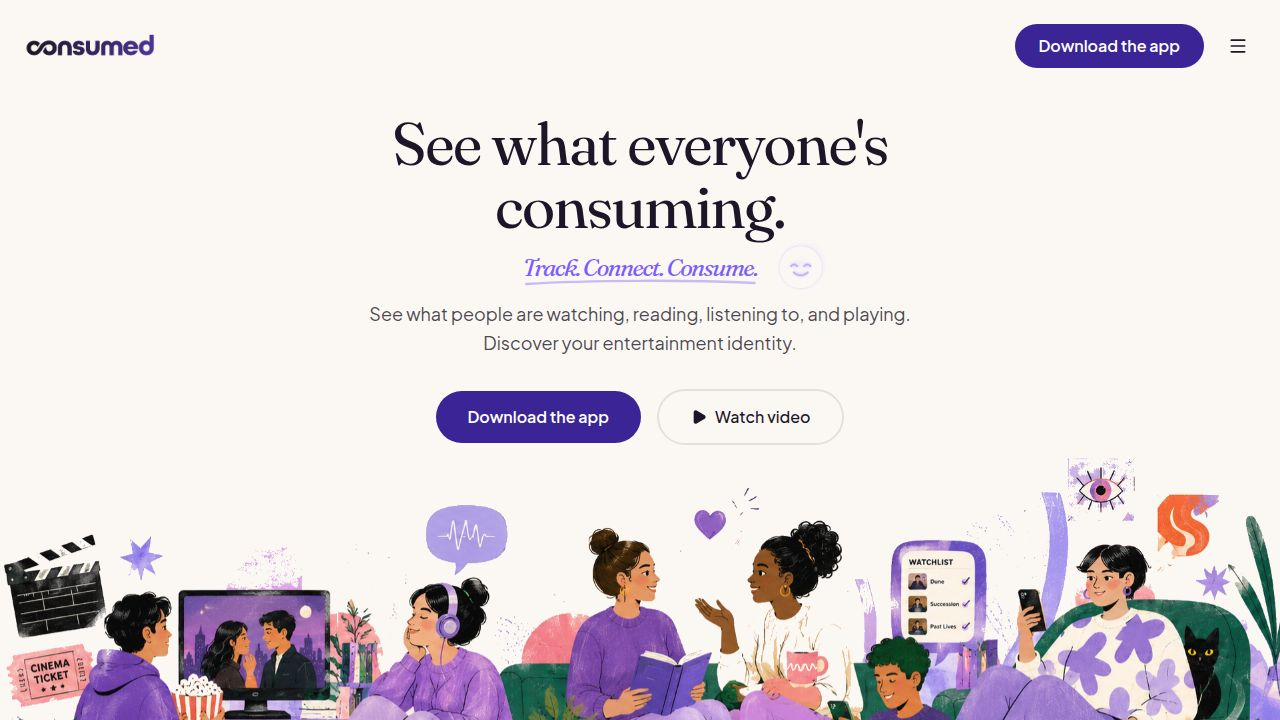
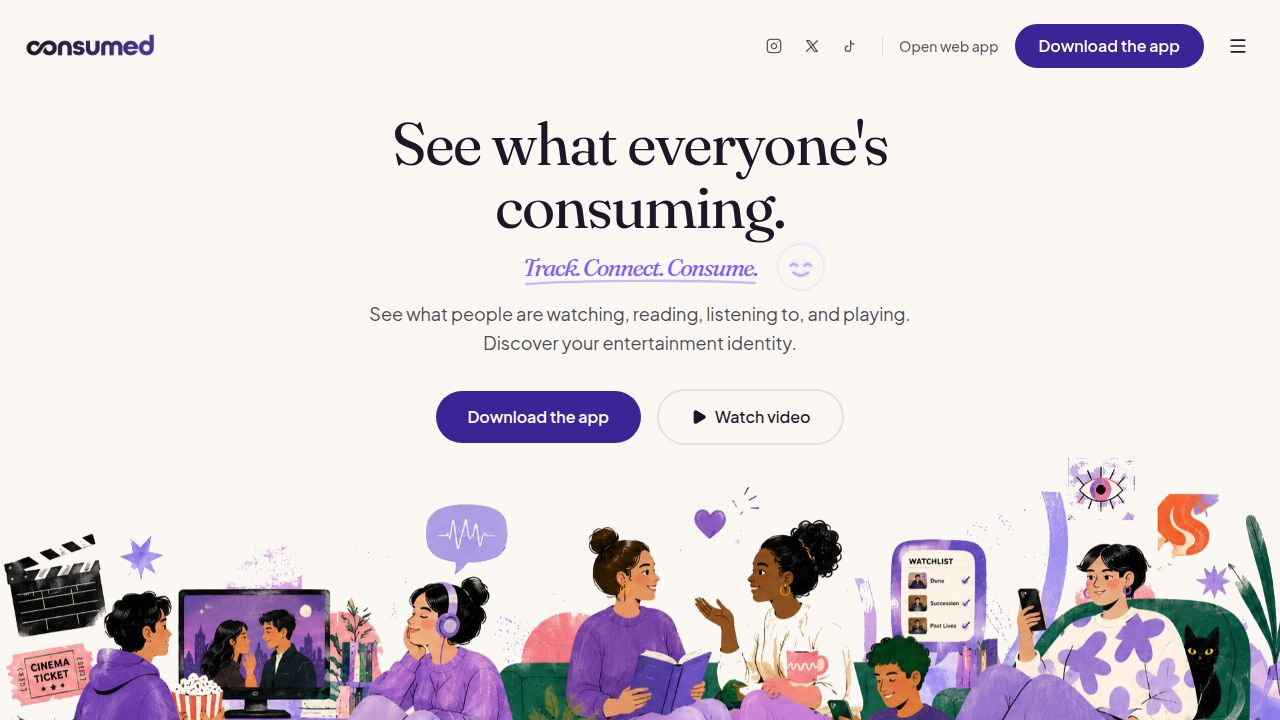
Add social media links to the header and mobile menu
Integrates Instagram, X, and TikTok social links into the header navigation and mobile menu of the React application, with the X link correctly pointing to "https://x.com/consumedapp".

Replit-Commit-Author: Agent
Replit-Commit-Session-Id: 1054afe4-a81a-4bfc-9d50-b308ff59b433
Replit-Commit-Checkpoint-Type: full_checkpoint
Replit-Commit-Event-Id: c1bf1c51-e830-44fe-8c20-2c316127a26f
Replit-Commit-Screenshot-Url: https://storage.googleapis.com/screenshot-production-us-central1/3ba4014b-a542-439a-b8e3-25ffaea1718b/1054afe4-a81a-4bfc-9d50-b308ff59b433/vY58wOK
Replit-Helium-Checkpoint-Created: true

diff --git a/client/src/pages/home.tsx b/client/src/pages/home.tsx
@@ -198,6 +198,18 @@ export default function Home() {
           </Link>
           
           <div className="flex items-center gap-3 md:gap-4">
+            <div className="hidden sm:flex items-center gap-1.5">
+              <a href="https://instagram.com/consumedapp" target="_blank" rel="noopener noreferrer" aria-label="Instagram" className="w-8 h-8 rounded-full flex items-center justify-center text-foreground/70 hover:text-primary hover:bg-primary/10 transition-colors" data-testid="link-nav-instagram">
+                <Instagram className="w-4 h-4" />
+              </a>
+              <a href="https://x.com/consumedapp" target="_blank" rel="noopener noreferrer" aria-label="X" className="w-8 h-8 rounded-full flex items-center justify-center text-foreground/70 hover:text-primary hover:bg-primary/10 transition-colors" data-testid="link-nav-x">
+                <XIcon className="w-4 h-4" />
+              </a>
+              <a href="https://www.tiktok.com/@consumedapp" target="_blank" rel="noopener noreferrer" aria-label="TikTok" className="w-8 h-8 rounded-full flex items-center justify-center text-foreground/70 hover:text-primary hover:bg-primary/10 transition-colors" data-testid="link-nav-tiktok">
+                <TikTok className="w-4 h-4" />
+              </a>
+            </div>
+            <span className="hidden sm:block w-px h-5 bg-border" />
             <a
               href="https://app.consumedapp.com"
               target="_blank"
@@ -232,6 +244,17 @@ export default function Home() {
               <Link href="/insights" className="text-left hover:text-primary transition-colors" data-testid="link-insights-mobile">Insights</Link>
               <a href="https://app.consumedapp.com" target="_blank" rel="noopener noreferrer" className="text-left hover:text-primary transition-colors" data-testid="link-web-app-mobile">Open web app</a>
             </nav>
+            <div className="flex items-center gap-4 mt-10">
+              <a href="https://instagram.com/consumedapp" target="_blank" rel="noopener noreferrer" aria-label="Instagram" className="w-11 h-11 rounded-full bg-white border border-border flex items-center justify-center text-foreground hover:text-primary hover:border-primary transition-colors" data-testid="link-mobile-instagram">
+                <Instagram className="w-5 h-5" />
+              </a>
+              <a href="https://x.com/consumedapp" target="_blank" rel="noopener noreferrer" aria-label="X" className="w-11 h-11 rounded-full bg-white border border-border flex items-center justify-center text-foreground hover:text-primary hover:border-primary transition-colors" data-testid="link-mobile-x">
+                <XIcon className="w-5 h-5" />
+              </a>
+              <a href="https://www.tiktok.com/@consumedapp" target="_blank" rel="noopener noreferrer" aria-label="TikTok" className="w-11 h-11 rounded-full bg-white border border-border flex items-center justify-center text-foreground hover:text-primary hover:border-primary transition-colors" data-testid="link-mobile-tiktok">
+                <TikTok className="w-5 h-5" />
+              </a>
+            </div>
           </div>
         </div>
       )}
